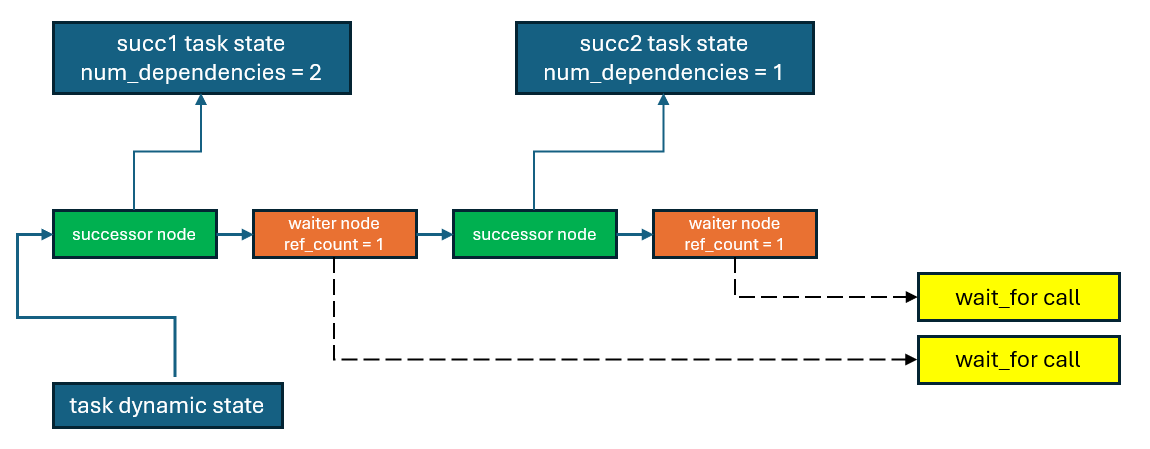
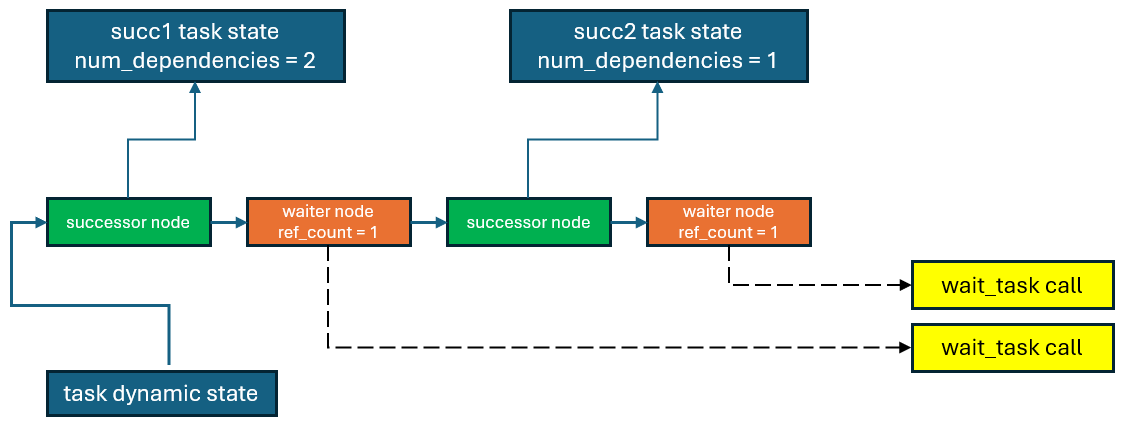
Start addressing feedback

diff --git a/rfcs/proposed/task_group_wait_single_task/README.md b/rfcs/proposed/task_group_wait_single_task/README.md
@@ -22,7 +22,7 @@ individual tasks.
 ## Introduction
 The ``tbb::task_group`` class represents a collection of tasks that execute concurrently. Tasks can be dynamically added to the group during executing.
 
-The [Task Group Dynamic Dependencies preview feature](../task_group_dependencies/README.md) extends the ``task_group`` API to support task dependencies, ensuring that a *successor* task begins execution only after all its *predecessors* have completed.
+The [Task Group Dynamic Dependencies preview feature](../task_group_dynamic_dependencies/README.md) extends the ``task_group`` API to support task dependencies, ensuring that a *successor* task begins execution only after all its *predecessors* have completed.
 
 The current ``task_group`` API allows waiting for the completion of all tasks in the group using ``task_group::wait`` or ``task_group::run_and_wait``.
 The waiting thread may participate in executing other tasks within the ``task_arena``, which may not be related to the specific ``task_group``.
@@ -131,8 +131,8 @@ enum class task_status {
 };
 
 class task_group {
-    task_status wait_for(task_completion_handle& comp_handle);
-    task_status run_and_wait_for(task_handle&& handle);
+    task_status wait_task(task_completion_handle& comp_handle);
+    task_status run_and_wait_task(task_handle&& handle);
 };
 
 // Defined in <oneapi/tbb/task_arena.h>
@@ -147,7 +147,7 @@ class task_arena {
 ### Member functions of ``task_group`` class
 
 ```cpp
-task_status wait_for(task_completion_handle& comp_handle);
+task_status wait_task(task_completion_handle& comp_handle);
 ```
 
 Waits for the completion of the task represented by ``comp_handle``.
@@ -156,12 +156,12 @@ If completion was transferred to another task using ``tbb::task_group::transfer_
 Returns ``task_status::completed`` if the task was executed, or ``task_status::canceled`` if it was not.
 
 ```cpp
-task_status run_and_wait_for(task_handle&& handle);
+task_status run_and_wait_task(task_handle&& handle);
 ```
 
 Schedules the task represented by ``handle`` for execution (if it has no unresolved dependencies), and waits for its completion.
 
-This is semantically equivalent to: ``task_completion_handle comp_handle = handle; run(std::move(handle)); wait_for(comp_handle)``.
+This is semantically equivalent to: ``task_completion_handle comp_handle = handle; run(std::move(handle)); wait_task(comp_handle)``.
 
 Returns ``task_status::completed`` if the task was executed, or ``task_status::canceled`` if it was not.
 
@@ -174,7 +174,7 @@ task_status wait_for(task_completion_handle& comp_handle);
 Waits for the completion of the task represented by ``comp_handle``.
 If completion was transferred to another task using ``tbb::task_group::transfer_completion_to``, the function waits for completion of that task.
 
-This is semantically equivalent to: ``execute([&] { tg.wait_for(comp_handle); })``.
+This is semantically equivalent to: ``execute([&] { tg.wait_task(comp_handle); })``, where ``tg`` is a ``task_group`` where the task referred by ``comp_handle`` is registered.
 
 Returns: ``task_status::completed`` if the task was executed and ``task_status::canceled`` otherwise.
 
@@ -237,15 +237,15 @@ To implement the proposed API, the successors list used in [Task Group Dynamic D
 The list can be modified to support two types of nodes representing entities that require notification upon task completion: successor nodes
 and waiter nodes.
 A successor node is an existing construct used to establish dependencies between tasks.
-A waiter node represents a ``wait_context`` object with a reference count of ``1``, assigned to each ``wait_for`` call.
+A waiter node represents a ``wait_context`` object with a reference count of ``1``, assigned to each ``wait_task`` call.
 
-Each ``wait_for`` call creates a new waiter node and adds it to the notification list similarly to adding the successor node.
+Each ``wait_task`` call creates a new waiter node and adds it to the notification list similarly to adding the successor node.
 
 When a task completes, it traverses its notification list as follows:
 * For each successor node, the dependency counter is decremented.
 * For each waiter node, the reference counter in the associated ``wait_context`` is decremented, notifying the waiting thread of task completion.
 
-The diagram below illustrates a notification list for a task with two successors and two ``wait_for`` calls awaiting its completion:
+The diagram below illustrates a notification list for a task with two successors and two ``wait_task`` calls awaiting its completion:
 
 <img src="notify_list_before_completion.png" width=800>
 
@@ -268,7 +268,7 @@ tbb::task_group::set_task_order(middle_task, end_task);
 
 tg.run(std::move(begin_task));
 tg.run(std::move(end_task));
-tg.run_and_wait_for(std::move(middle_task));
+tg.run_and_wait_task(std::move(middle_task));
 
 // Post middle task actions
 
@@ -285,19 +285,19 @@ For simplicity, assume that the task graph is executed within a single-threaded 
 In the current implementation of Task Group Dynamic Dependencies, when a task completes and notifies its list,
 one of the next ready-to-execute tasks (with zero dependencies) is bypassed.
 
-When the calling thread invokes ``run_and_wait_for`` call, the ``begin_task`` is executed. After executing its body,
+When the calling thread invokes ``run_and_wait_task`` call, the ``begin_task`` is executed. After executing its body,
 it notifies its single successor node in the list. The ``middle_task``'s dependency count becomes zero, and the task is bypassed.
 
 When ``middle_task`` completes, it notifies its list, which contains both a successor node and a waiter node. The successor node notifies
 ``end_task``, making it available for execution. The waiter node decrements the reference count in the associated ``wait_context``, allowing the
-corresponding ``run_and_wait_for`` call to complete.
+corresponding ``run_and_wait_task`` call to complete.
 The notified ``wait_context`` is the same context awaited by the calling thread.
 
 If ``end_task`` is bypassed, the calling thread will not exit until all tasks in the graph have completed. If additional tasks follow ``end_task``,
 the thread will only exit after each is bypassed sequentially.
 
 However, since the current thread notifies the ``wait_context`` it is waiting on via the corresponding waiter node, it is more appropriate to avoid
-bypassing the next task. Instead, the task should be spawned, and ``run_and_wait_for`` should exit after executing ``middle_task``.
+bypassing the next task. Instead, the task should be spawned, and ``run_and_wait_task`` should exit after executing ``middle_task``.
 
 This can be implemented by storing a pointer to the innermost ``wait_context`` that the current thread is waiting on, within the task
 dispatcher associated with the calling thread.
@@ -387,11 +387,11 @@ The first alternative approach is to assign a single ``wait_context`` to each ta
 
 <img src="wait_context_part_of_state.png" width=800>
 
-This allows reuse of a single context object for all ``wait_for`` calls, but introduces challenges in supporting completion transfer.
+This allows reuse of a single context object for all ``wait_task`` calls, but introduces challenges in supporting completion transfer.
 If completion is transferred to another task, a different ``wait_context`` object from the new task's state should be used:
 
 ```cpp
-// wait_for(comp_handle) implementation
+// wait_task(comp_handle) implementation
 task_dynamic_state* state = comp_handle.get_dynamic_state();
 
 r1::wait(state->get_wait_context());
@@ -419,7 +419,7 @@ void wait(wait_interface&, task_group_context&); // new entry point for generali
 ```
 
 ``wait_interface::continue_execution`` acts as a predicate. When it returns ``false``, the waiting thread exits the scheduler, completing the 
-corresponding ``wait_for`` call.
+corresponding ``wait_task`` call.
 
 ``wait_interface::wait_id`` should return a unique identifier for the wait, enabling notification of waiting threads via the concurrent monitor
 in the TBB scheduler.
@@ -482,7 +482,7 @@ struct wait_on_task : wait_interface {
     }
 };
 
-void wait_for(task_completion_handle& comp_handle) {
+void wait_task(task_completion_handle& comp_handle) {
     task_dynamic_state* state = comp_handle.get_dynamic_state();
 
     wait_on_task task_waiter(state);
